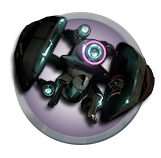
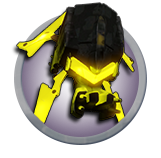
Achievement Crash Fix + Solar Spore Compat + New Textures

diff --git a/VaultManager.cpp b/VaultManager.cpp
@@ -51,9 +51,10 @@ void VaultManager::Initialize() {
 	App::ConsolePrintF("SKIBIDI");
 	hash_map <ResourceKey, uint32_t> vaultplanets;
 	hash_map <ResourceKey, uint32_t> openedVaults;
-	cutsceneSeti = false; //Did the first cutscene in a save file?
-	cutsceneSysView = false; //Did the second cutscene in the solar system view?
-	cutscenePlanetView = false; //Did the third cutscene on the planet surface?
+	bool cutsceneSeti = false; //Did the first cutscene in a save file?
+	bool cutsceneSysView = false; //Did the second cutscene in the solar system view?
+	bool cutscenePlanetView = false; //Did the third cutscene on the planet surface?
+	App::ConsolePrintF("bools %b %b %b ", cutsceneSeti, cutsceneSysView, cutscenePlanetView);
 	sInstance = this;
 	LoadPlanet = false;
 }
@@ -71,9 +72,10 @@ void VaultManager::Update(int deltaTime, int deltaGameTime) {
 			LoadPlanet = false;
 			if (GetActiveStarRecord()->GetType() != StarType::ProtoPlanetary && GetActiveStarRecord()->GetType() != StarType::BlackHole && GetActiveStarRecord()->GetType() != StarType::GalacticCore) {
 				uint32_t pid = GetActivePlanetRecord()->GetID().internalValue;
-
+				//When viewing a vault planet from the solar system view. If it is your first time encountering one, it shall play a cutscene when you hover over it.
 				if (isVaultPlanet(pid)) {
 					if (!cutsceneSysView) {
+						App::ConsolePrintF("Spawned A Ra'tal Drone.");
 						cutsceneSysView = true;
 						CinematicManager.PlayCinematic("RSPORE_VaultDetector", 0, 0, 0, 0, 0);
 					}
@@ -111,6 +113,8 @@ void VaultManager::Update(int deltaTime, int deltaGameTime) {
 					//Play Vault intro cutscene when first land.
 					if (!cutscenePlanetView) {
 						cutscenePlanetView = true;
+
+						App::ConsolePrintF("Vault Planet Cutscene should've played.");
 						CinematicManager.PlayCinematic("RSPORE_VAULTCUT", 0, 0, 0, 0, 0);
 					}
 				}
@@ -153,7 +157,6 @@ bool VaultManager::GenerateVault(cStarRecordPtr StrRecord)
 			}
 			int rando = rand(14);
 			App::ConsolePrintF("rand %d", rando);
-			App::ConsolePrintF("rand 2 %d", rando);
 			int pType = (int)StrRecord->GetPlanetRecord(i)->mType;
 			
 			//If T0 T1 T2 or T3 then generate vault, otherwise if gas giant or asteroid belt, skip.
@@ -161,6 +164,7 @@ bool VaultManager::GenerateVault(cStarRecordPtr StrRecord)
 				//If statement was here that checked the boolean, however it resulted in returning a nullptr and crashes the game.
 				
 				if (!VaultManagerA.cutsceneSeti) {
+					App::ConsolePrintF("The first vault cutscene should have played.");
 					CinematicManager.PlayCinematic("RSPORE_VAULTSETIWAIT", 0, 0, 0, 0, 0);
 					VaultManagerA.cutsceneSeti = true;
 				}
@@ -169,25 +173,33 @@ bool VaultManager::GenerateVault(cStarRecordPtr StrRecord)
 
 
 				auto vaultplanet = StrRecord->GetPlanetRecord(i)->GetID();
+				
+				
 				//replace with hash_map
 				ResourceKey vpkey;
 				vpkey.instanceID = vaultplanet.internalValue;
 				vaultplanets.emplace(vpkey,vaultplanet.internalValue);
 				ResourceKey vaultScript;
+				ResourceKey planetSource;
 				//rattlesnake //prop //planetTerrainScripts_artDirected~
 				//vaultScript = ResourceKey(0x98eeb4f9, 0x00B1B104, 0x4184a200);
 				//vaultTEST //prop //planetTerrainScriptsRSPORE
 				vaultScript = ResourceKey(0xa395f2a9, 0x00B1B104, 0x8C2C3803);
-				
-				
-				StrRecord->GetPlanetRecord(i)->GenerateTerrainKey();
+
+
+				planetSource = StrRecord->GetPlanetRecord(i)->GetTerrainScriptSource();
+				cPlanetRecord* recowd = StrRecord->GetPlanetRecord(i);
+
+				//cPlanetRecord::AssignTerrainT0(vaultplanet.GetRecord());
 				StrRecord->GetPlanetRecord(i)->SetGeneratedTerrainKey(vaultScript);
+				StrRecord->GetPlanetRecord(i)->GenerateTerrainKey();
+
 				StrRecord->GetPlanetRecord(i)->mCommodityNodes.clear();
 				//StrRecord->GetPlanetRecord(i)->mFlags = 17480;
 				//StrRecord->GetPlanetRecord(i)->mType = PlanetType::T1;
 
 				//StrRecord->GetPlanetRecord(i)->mSpiceGen = ResourceKey({ id(""),0,0 });
-
+				vaultplanet.GetRecord()->mPlanetObjects.clear();
 				App::ConsolePrintF("A vault has generated on planet %d", i);
 				return true;
 				
@@ -206,7 +218,14 @@ bool VaultManager::OpenVault(cPlanetRecordPtr PlRecord)
 	//replace with hash_map
 	ResourceKey vpkey;
 	vpkey.instanceID = vaultplanet.internalValue;
-	vaultplanets.emplace(vpkey, vaultplanet.internalValue);
+	openedVaults.emplace(vpkey, vaultplanet.internalValue);
+
+	UTFWin::UILayout* mpUIlayout;
+	mpUIlayout = new UTFWin::UILayout();
+	if (mpUIlayout->LoadByID(id("vaultui"))) {
+		mpUIlayout->SetVisible(true);
+	
+	}
 	return false;
 }
 

diff --git a/SolSysResourcesCheat.cpp b/SolSysResourcesCheat.cpp
@@ -1,6 +1,7 @@
 #include "stdafx.h"
 #include "SolSysResourcesCheat.h"
 #include "SolarSystemResources.h"
+#include "VaultManager.h"
 using namespace Simulator;
 SolSysResourcesCheat::SolSysResourcesCheat()
 {
@@ -17,8 +18,8 @@ void SolSysResourcesCheat::ParseLine(const ArgScript::Line& line)
 
 
 	//CinematicManager.PlayCinematic("RSPORE_VaultDetector", 0, 0, 0, 0, 0);
-
-	CinematicManager.PlayCinematic("RSPORE_VAULTCUT", 0, 0, 0, 0, 0);
+	VaultManagerA.OpenVault(GetActivePlanetRecord());
+	//CinematicManager.PlayCinematic("RSPORE_VAULTCUT", 0, 0, 0, 0, 0);
 	//This will not work until the SolarSystemResources is re-added to DLLMAIN
 	//SolarSystemResourcesA.OpenSysUI();
 	//SolarSystemResourcesA.LogSystem();

diff --git a/AchievementSystem.cpp b/AchievementSystem.cpp
@@ -91,7 +91,8 @@ bool AchievementSystem::Achieve(string16 name, string16 desc, ImagePtr grug)
 	}
 	else {
 	
-		Close();
+		//Close();
+		return false;
 	}
 
 	if (mpUIlayout->LoadByID(id("rat_achievement")))
@@ -127,6 +128,7 @@ bool AchievementSystem::Achieve(string16 name, string16 desc, ImagePtr grug)
 
 bool AchievementSystem::Achieve(string ied)
 {
+
 	PropertyListPtr sillyPropList;
 	ResourceKey imgKey;
 	//Gets the achievment spacetool
